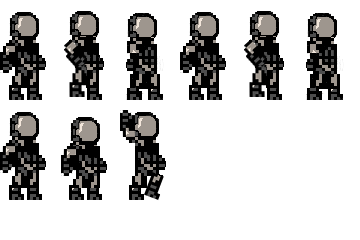
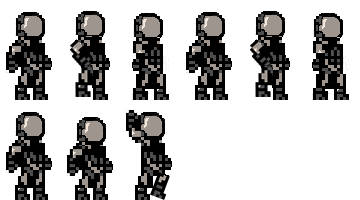
more player stuff

diff --git a/ConnectedWorlds/ConnectedWorlds/SpriteAnimation.cpp b/ConnectedWorlds/ConnectedWorlds/SpriteAnimation.cpp
@@ -2,7 +2,7 @@
 
 																// these need to be b2Vec2's
 SpriteAnimation::SpriteAnimation(SDL_Texture* image, Vec2 pos, Vec2 cellSize, Vec2 frames_xy, Vec2 sheetSize, float frameRate, bool loop) :
-Sprite(image, pos, cellSize), frameRate_(frameRate), loop_(loop), playing_(true), currFrame_(0), frameTimer_(0.0f), cellSize_(cellSize), sheetSize_(sheetSize), frames_xy_(frames_xy)
+Sprite(image, pos, cellSize), frameRate_(frameRate), loop_(loop), playing_(false), currFrame_(0), frameTimer_(0.0f), cellSize_(cellSize), sheetSize_(sheetSize), frames_xy_(frames_xy)
 {
 	srcRect_ = SDL_Rect();
 	
@@ -22,13 +22,13 @@ void SpriteAnimation::Update(float deltaTime)
 	updateCurrFrame(deltaTime);
 }
 
-void SpriteAnimation::setCurrAnim(std::string animation)
+/*void SpriteAnimation::setCurrAnim(std::string animation)
 {
 	frameRate_ = anims_[animation].frameRate;
 	frames_xy_.y = anims_[animation].startFrame;
 	currFrame_ = frames_xy_.y;
 	frames_xy_.x = anims_[animation].numFrames;
-}
+}*/
 
 void SpriteAnimation::Draw(SDL_Renderer* rend, const Vec2& cameraPos) 
 {
@@ -44,8 +44,8 @@ void SpriteAnimation::Draw(SDL_Renderer* rend, const Vec2& cameraPos)
 
 void SpriteAnimation::updateSrcRect()
 {
-	srcRect_.x = (currFrame_ % (Uint16)sheetSize_.x) * cellSize_.y;
-	srcRect_.y = (currFrame_ / (Uint16)sheetSize_.x) * cellSize_.x;
+	srcRect_.x = (currFrame_ % (Uint16)sheetSize_.x) * cellSize_.x;
+	srcRect_.y = (currFrame_ / (Uint16)sheetSize_.x) * cellSize_.y;
 	srcRect_.w = cellSize_.x;
 	srcRect_.h = cellSize_.y;
 }

diff --git a/ConnectedWorlds/ConnectedWorlds/Game.cpp b/ConnectedWorlds/ConnectedWorlds/Game.cpp
@@ -35,7 +35,7 @@ void Game::InitGame()
 	pSpriteSheet = IMG_LoadTexture(sdlRenderer, "tilesheet.png");
 
 	world = new World(pSpriteSheet);
-	player = new Player(playerSpriteSheet,Vec2(50.0f, 50.0f),Vec2(100.0f, 60.0f),Vec2(6.0f,0.0f),Vec2(359.0f,198.0f),10,true);
+	player = new Player(playerSpriteSheet,Vec2(300.0f, 555.0f),Vec2(60.0f, 100.0f),Vec2(3.0f,0.0f),Vec2(360.0f,200.0f),7,true);
 }
 
 void Game::Run()
@@ -99,12 +99,18 @@ void Game::HandleEvent(const SDL_Event& newEvent)
 
 void Game::OnKeyDown(Uint16 key)
 {
+	switch (key)
+	{
+	case SDL_SCANCODE_ESCAPE:
+		running_ = false;
+		break;
+	}
 	player->OnKeyDown(key);
 }
 
 void Game::OnKeyUp(Uint16 key)
 {
-
+	player->OnKeyUp(key);
 }
 
 void Game::Clean()

diff --git a/ConnectedWorlds/ConnectedWorlds/Player.cpp b/ConnectedWorlds/ConnectedWorlds/Player.cpp
@@ -1,5 +1,6 @@
 #include "Player.h"
 
+
 Player::~Player()
 {
 
@@ -16,22 +17,41 @@ void Player::OnKeyDown(Uint16 key)
 {
 	switch (key)
 	{
-	case SDL_SCANCODE_UP:
-		break;
 	case SDL_SCANCODE_RIGHT:
 		velocity.x += 1;
 		break;
 	case SDL_SCANCODE_LEFT:
 		velocity.x -= 1;
 		break;
-	case SDL_SCANCODE_DOWN:
-		break;
 	case SDL_SCANCODE_SPACE:
 		break;
+	}
+	if (!playing_)
+	{
+		Play(true);
 	}
 }
 
 void Player::OnKeyUp(Uint16 key)
+{
+	switch (key)
+	{
+	case SDL_SCANCODE_RIGHT:
+		velocity.x = 0;
+		break;
+	case SDL_SCANCODE_LEFT:
+		velocity.x = 0;
+		break;
+	case SDL_SCANCODE_SPACE:
+		break;
+	}
+	if (!playing_)
+	{
+		Play(true);
+	}
+}
+
+void UpdateCurrAnimation()
 {
 
 }

diff --git a/ConnectedWorlds/ConnectedWorlds/SpriteAnimation.h b/ConnectedWorlds/ConnectedWorlds/SpriteAnimation.h
@@ -14,9 +14,9 @@ protected:
 		Uint16 numFrames;
 	};
 
-	Vec2 cellSize_; // x = cellHeight, y = cellWidth
-	// cellHeight // how tall each animation frame is
+	Vec2 cellSize_; // x = cellWidth, y = cellHeight
 	// cellWidth // how wide each animation frame is
+	// cellHeight // how tall each animation frame is
 
 	Vec2 frames_xy_; // x = numFrames, y = startFrame
 	// numFrames	// num of frames in animation
@@ -39,7 +39,7 @@ protected:
 	void updateSrcRect();
 	void updateCurrFrame(float deltaTime);
 
-	std::map<std::string, AnimationData> anims_;
+	//std::map<std::string, AnimationData> anims_;
 	void setCurrAnim(std::string animation);
 
 public:
